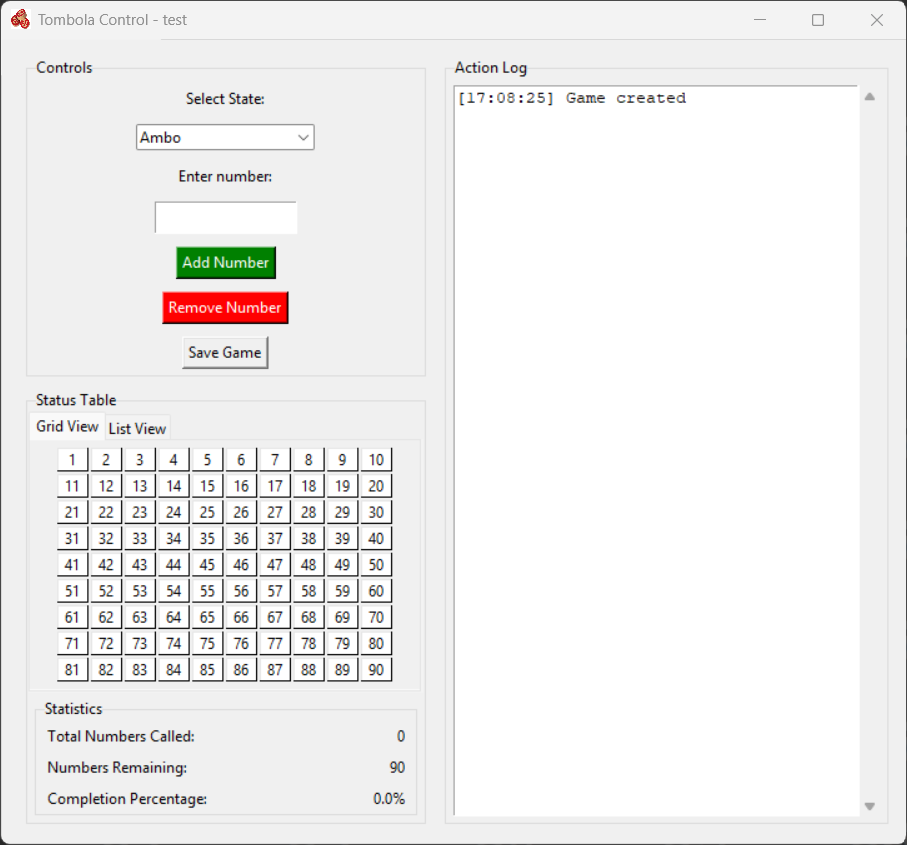
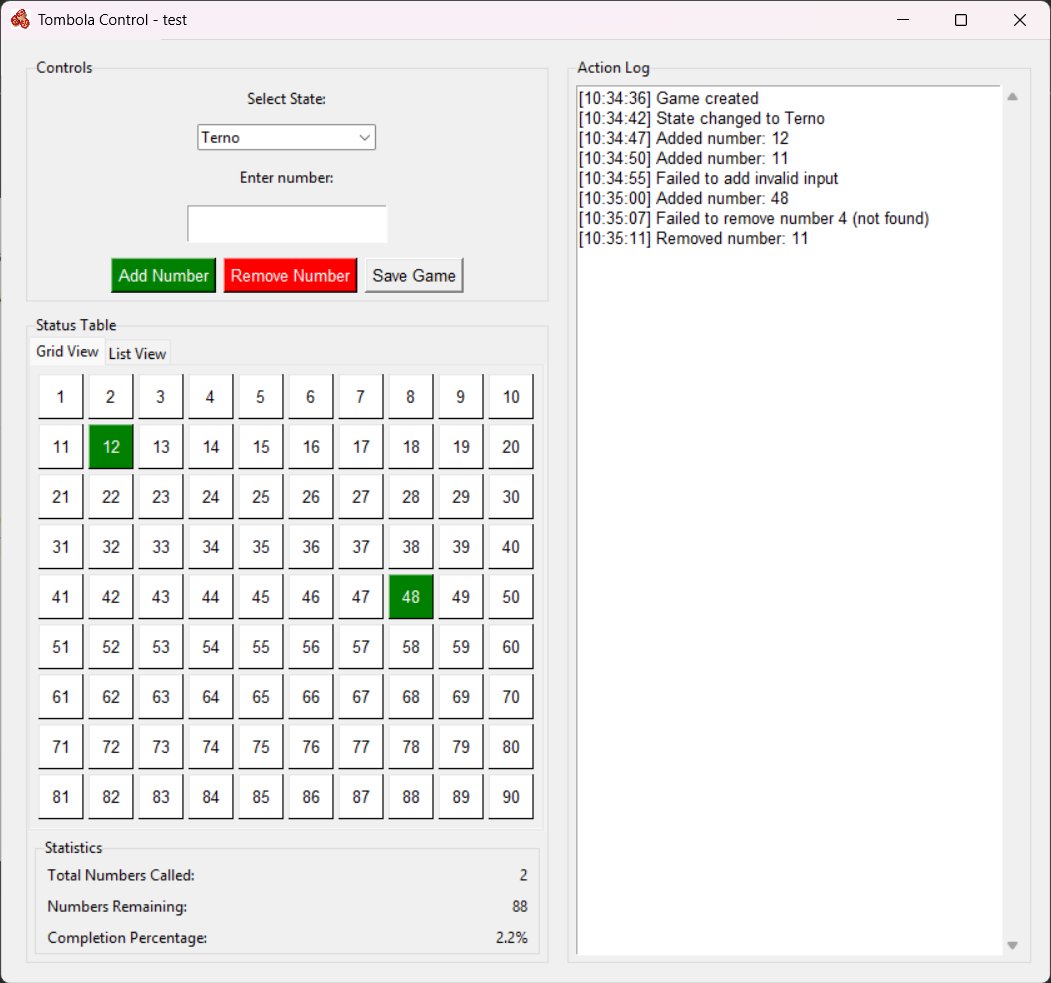
improved ui and log

diff --git a/src/tombola_manager/control_window.py b/src/tombola_manager/control_window.py
@@ -45,19 +45,26 @@ class ControlWindow:
         self.state_dropdown.pack(pady=5)
         self.state_dropdown.bind("<<ComboboxSelected>>", self.update_state)
         
-        # Number entry
-        tk.Label(control_frame, text=self.lang.get_text('enter_number')).pack(pady=5)
-        self.number_entry = tk.Entry(control_frame, font=("Arial", 14), width=10)
-        self.number_entry.pack(pady=5)
+        # Number entry with larger font
+        tk.Label(control_frame, text=self.lang.get_text('enter_number')).pack(pady=6)
+        self.number_entry = tk.Entry(control_frame, font=("Arial", 17), width=12)
+        self.number_entry.pack(pady=6)
         
-        # Buttons
-        tk.Button(control_frame, text=self.lang.get_text('add_number'), 
-                 command=self.add_number, bg="green", fg="white").pack(pady=5)
-        tk.Button(control_frame, text=self.lang.get_text('remove_number'), 
-                 command=self.remove_number, bg="red", fg="white").pack(pady=5)
-        tk.Button(control_frame, text=self.lang.get_text('save_game'), 
-                 command=self.save_game).pack(pady=5)
+        # Create a frame for buttons to arrange them horizontally
+        button_frame = ttk.Frame(control_frame)
+        button_frame.pack(pady=6)
         
+        # Buttons with larger size arranged horizontally
+        tk.Button(button_frame, text=self.lang.get_text('add_number'), 
+                 command=self.add_number, bg="green", fg="white",
+                 font=("Arial", 10)).pack(side="left", padx=3)
+        tk.Button(button_frame, text=self.lang.get_text('remove_number'), 
+                 command=self.remove_number, bg="red", fg="white",
+                 font=("Arial", 10)).pack(side="left", padx=3)
+        tk.Button(button_frame, text=self.lang.get_text('save_game'), 
+                 command=self.save_game,
+                 font=("Arial", 10)).pack(side="left", padx=3)
+
         # Status frame (bottom left)
         status_frame = ttk.LabelFrame(left_frame, text=self.lang.get_text('status_table'))
         status_frame.pack(padx=5, pady=5, fill="both", expand=True)
@@ -75,12 +82,13 @@ class ControlWindow:
         grid_container = ttk.Frame(grid_frame)
         grid_container.pack(padx=5, pady=5)
         
+        # Grid view modifications
         for i in range(1, 91):
             row = (i-1) // 10
             col = (i-1) % 10
-            label = tk.Label(grid_container, text=str(i), width=3, height=1,
-                           relief="raised", borderwidth=1)
-            label.grid(row=row, column=col, padx=1, pady=1)
+            label = tk.Label(grid_container, text=str(i), width=4, height=2,  # increased width and height
+                           relief="raised", borderwidth=1, font=("Arial", 10))  # added font size
+            label.grid(row=row, column=col, padx=2, pady=2)  # increased padding
             self.grid_labels[i] = label
         
         # List view tab
@@ -89,11 +97,11 @@ class ControlWindow:
         
         # Create status table
         self.status_table = ttk.Treeview(list_frame, columns=("Called", "Remaining"),
-                                       show="headings", height=5)
+                                       show="headings", height=6)  # increased height
         self.status_table.heading("Called", text=self.lang.get_text('called_numbers'))
         self.status_table.heading("Remaining", text=self.lang.get_text('remaining_numbers'))
-        self.status_table.column("Called", width=150)
-        self.status_table.column("Remaining", width=150)
+        self.status_table.column("Called", width=180)  # increased width
+        self.status_table.column("Remaining", width=180)  # increased width
         self.status_table.pack(padx=5, pady=5, fill="both", expand=True)
         
         # Add statistics
@@ -120,8 +128,9 @@ class ControlWindow:
         log_frame.pack(side="right", padx=5, pady=5, fill="both", expand=True)
         
         # Create scrolled text widget for log
-        self.log_text = scrolledtext.ScrolledText(log_frame, width=40, height=20, 
-                                                wrap=tk.WORD, state='disabled')
+        self.log_text = scrolledtext.ScrolledText(log_frame, width=48, height=24,  # increased width and height
+                                                wrap=tk.WORD, state='disabled',
+                                                font=("Arial", 10))  # added font size
         self.log_text.pack(padx=5, pady=5, fill="both", expand=True)
         
         # Load existing log if any
@@ -178,6 +187,7 @@ class ControlWindow:
             if 1 <= number <= 90:
                 if self.game.add_number(number):
                     self.view_window.update_display()
+                    self.game.log_action(f'{self.lang.get_text('added_number').format(number)}')
                     self.update_log()
                     self.update_status_table()
                     self.save_game()
@@ -203,6 +213,7 @@ class ControlWindow:
             number = int(self.number_entry.get())
             if self.game.remove_number(number):
                 self.view_window.update_display()
+                self.game.log_action(self.lang.get_text('removed_number').format(number))
                 self.update_log()
                 self.update_status_table()
                 self.save_game()

diff --git a/src/tombola_manager/translations.py b/src/tombola_manager/translations.py
@@ -57,6 +57,8 @@ TRANSLATIONS = {
         'failed_remove': 'Failed to remove number {} (not found)',
         'failed_remove_input': 'Failed to remove invalid input',
         'state_changed': 'State changed to {}',
+        'added_number': 'Added number: {}',
+        'removed_number': 'Removed number: {}',
     },
     'it': {
         # Main Window
@@ -116,5 +118,7 @@ TRANSLATIONS = {
         'failed_remove': 'Impossibile rimuovere il numero {} (non trovato)',
         'failed_remove_input': 'Impossibile rimuovere input non valido',
         'state_changed': 'Stato cambiato in {}',
+        'added_number': 'Aggiunto numero: {}',
+        'removed_number': 'Rimosso numero: {}',
     }
 }
